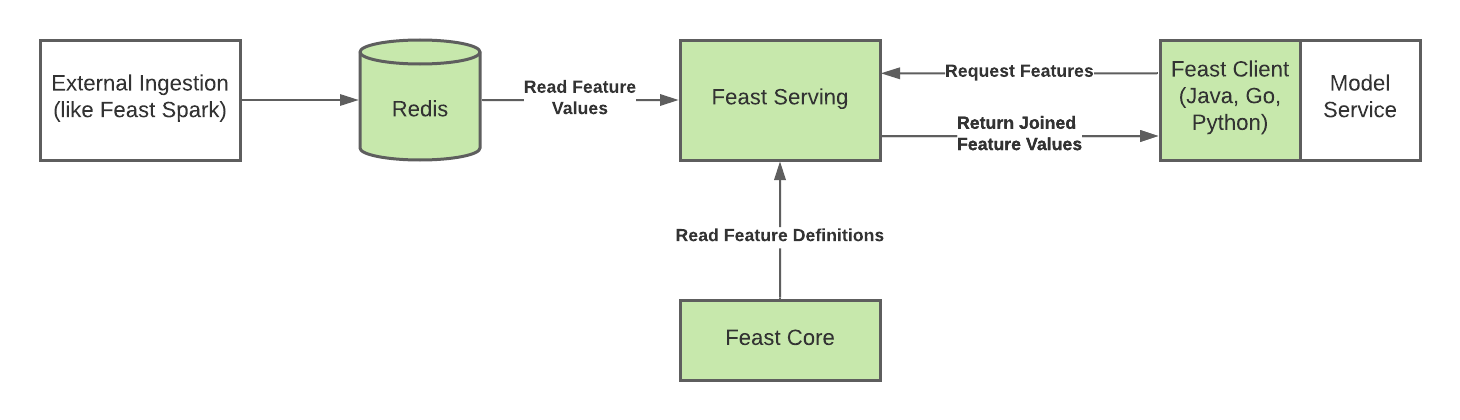
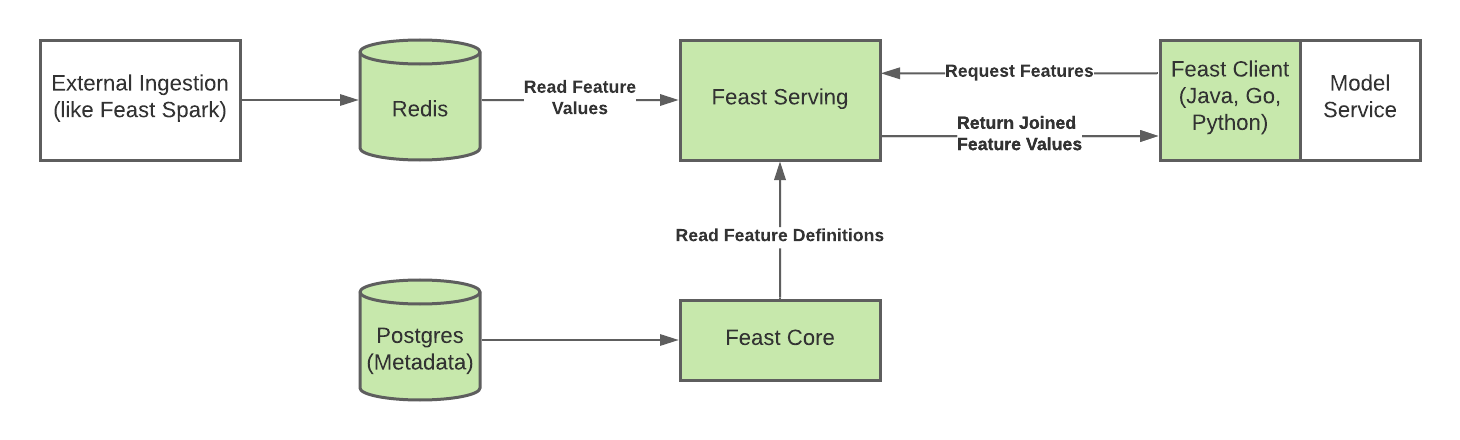
Add more details to the README.md

diff --git a/README.md b/README.md
@@ -1,4 +1,5 @@
 # Feast Java components
+[![complete](https://github.com/feast-dev/feast-java/actions/workflows/complete.yml/badge.svg)](https://github.com/feast-dev/feast-java/actions/workflows/complete.yml)
 
 ## Overview
 
@@ -11,3 +12,36 @@ This repository contains the following Feast components
 # Architecture
 
 ![](docs/architecture.png)
+
+
+* Feast Core has a dependency on Postgres
+* Feast Serving has a dependency on an online store (database) for retrieving features (like Redis)
+* Feast Serving has a dependency on Feast Core
+* The process of ingesting data into the online store (Redis) is decoupled from the process of reading from it. Please see [Feast Spark](https://github.com/feast-dev/feast-spark) for more details about ingesting data into the online store.
+* The Go and Python Clients are not a part of this repository.
+
+# Running tests
+
+To run unit tests
+
+```
+make test-java
+```
+
+To run integration tests
+
+```
+make test-java-integration
+```
+
+# Building docker images
+
+In order to build development versions of the Core and Serving images, please run the following commands:
+
+```
+build-docker REGISTRY=gcr.io/kf-feast VERSION=develop
+```
+
+# Installing using Helm
+
+Please see the Helm charts in [charts](infra/charts).
